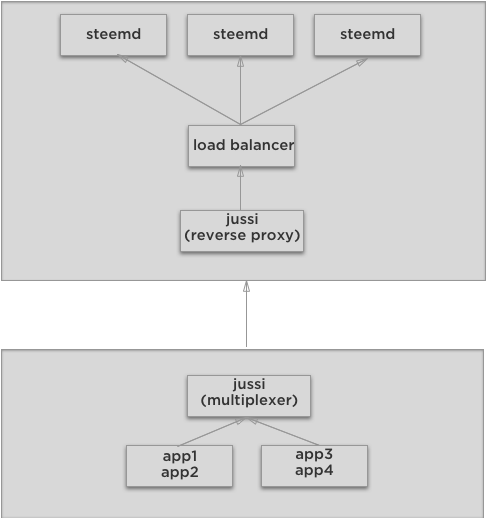
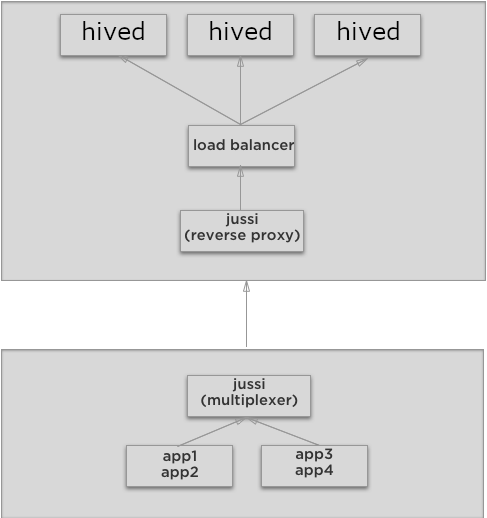
jussi update

Changed region(s): [[0.6776, 0.0309, 0.8316, 0.0927], [0.154, 0.0309, 0.308, 0.0927], [0.4312, 0.0309, 0.5544, 0.0927]]

diff --git a/_services/jussi.md b/_services/jussi.md
@@ -28,7 +28,7 @@ Jussi is a reverse proxy that is situation between the API client and the `hived
 ##### To run `jussi` locally:
 
 ```bash
-git clone https://github.com/steemit/jussi.git
+git clone https://gitlab.syncad.com/hive/jussi.git
 cd jussi
 docker build -t="$USER/jussi:$(git rev-parse --abbrev-ref HEAD)" .
 docker run -itp 9000:8080 "$USER/jussi:$(git rev-parse --abbrev-ref HEAD)"
@@ -53,12 +53,12 @@ The default `DEV_config.json` is:
 
 ```json
 {
-   "limits":{"blacklist_accounts":["non-steemit"]},
+   "limits":{"blacklist_accounts":["badguy"]},
    "upstreams":[
       {
          "name":"hived",
          "translate_to_appbase":false,
-         "urls":[["hived", "https://hived.steemitdev.com"]],
+         "urls":[["hived", "http://api.hive.blog"]],
          "ttls":[
             ["hived", 3],
             ["hived.login_api", -1],
@@ -89,7 +89,7 @@ The default `DEV_config.json` is:
       },
       {
          "name":"appbase",
-         "urls":[["appbase", "https://hived.steemitdev.com"]],
+         "urls":[["appbase", "https://api.hive.blog"]],
          "ttls":[
             ["appbase", -2],
             ["appbase.block_api", -2],
@@ -152,11 +152,7 @@ Jussi can be configured with various `TTL` (Time To Live) schemes. A `TTL` is an
 | `hived`   | `database_api`          | `get_state`                     | `'/promoted'`      | 30            |
 | `hived`   | `database_api`          | `get_state`                     | `'/created'`       | 10            |
 | `hived`   | `database_api`          | `get_dynamic_global_properties` | _all_              | 1             |
-| `overseer` | _all_                   | _all_                           | _all_              | 5             |
-| `conveyor` | _all_                   | _all_                           | _all_              | -1            |
-| `hbds`     | _all_                   | _all_                           | _all_              | 3             |
 | `hivemind` | _all_                   | _all_                           | _all_              | 3             |
-| `yo`       | _all_                   | _all_                           | _all_              | 3             |
 
 In this case, requests for `login_api` and `network_broadcast_api` have a `TTL` of `-1`, which means requests with those namespaces are not cached, whereas `follow_api` request have a `TTL` of `10` seconds.
 
@@ -177,7 +173,7 @@ Each `urls` key can have multiple endpoints for each namespace.  For example:
 ```json
 {
   "urls":[
-    ["appbase", "https://api.steemitdev.com"]
+    ["appbase", "http://anyx.io"]
   ]
 }
 ```
@@ -187,9 +183,9 @@ Each `urls` key can have multiple endpoints for each namespace.  For example:
 ```json
 {
   "urls":[
-    ["appbase","https://api.steemitdev.com"],
-    ["appbase.condenser_api.get_account_history","https://api-for-account-history.steemitdev.com"],
-    ["appbase.condenser_api.get_ops_in_block","https://api-for-get-ops-in-block.steemitdev.com"]
+    ["appbase","http://anyx.io"],
+    ["appbase.condenser_api.get_account_history","http://anyx.io"],
+    ["appbase.condenser_api.get_ops_in_block","http://anyx.io"]
   ]
 }
 ```
@@ -386,7 +382,7 @@ curl -s --data '[{"jsonrpc":"2.0", "method":"condenser_api.get_block", "params":
 
 * Batch requests are limited to a maximum of 50 request elements.
   * *Also see: [json-rpc batch specification](http://www.jsonrpc.org/specification#batch)*
-* Repository: [github.com/steemit/jussi](https://github.com/steemit/jussi)
+* Repository: [gitlab.syncad.com/hive/jussi](https://gitlab.syncad.com/hive/jussi)
 
 ---
 

diff --git a/_tutorials-recipes/jussi-multiplexer.md b/_tutorials-recipes/jussi-multiplexer.md
@@ -7,7 +7,7 @@ layout: full
 canonical_url: jussi-multiplexer.html
 ---
 
-*By the end of this recipe you should know how to install `jussi` on your local subnet to take advantage of its features.*
+*How to install `jussi` on your local subnet to take advantage of its features.*
 
 This recipe will take you through the process of setting up `jussi` for a small infrastructure like a home network.
 
@@ -38,13 +38,13 @@ Although it's possible to set up `jussi` to run natively without virtualization,
 #### 2. Install `jussi` <a name="install-jussi"></a>
 
 ```bash
-git clone https://github.com/steemit/jussi.git
+git clone https://gitlab.syncad.com/hive/jussi.git
 cd jussi
 ```
 
 Edit the file `DEV_config.json` and change all:
 
-`https://hived.steemitdev.com`
+`https://api.steemit.com`
 
 ... to ...
 
